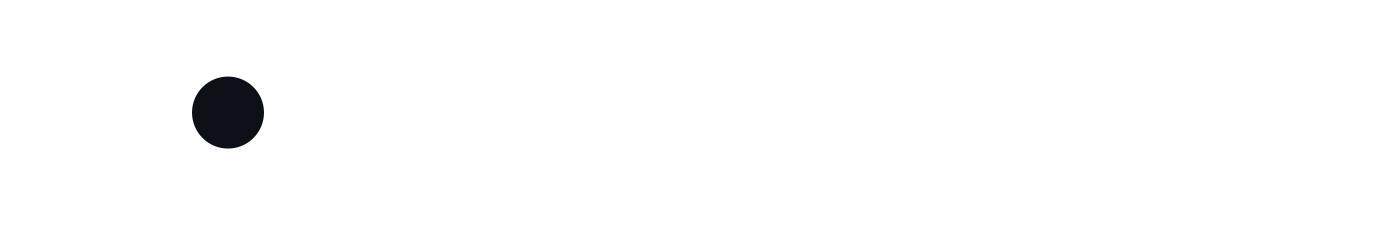
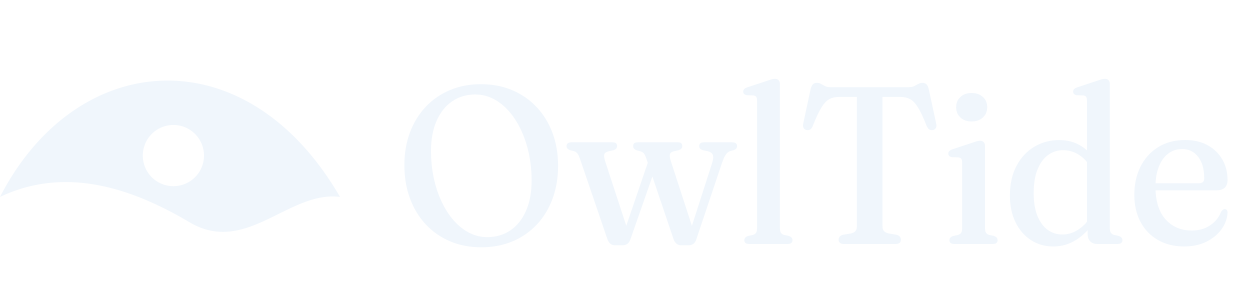
Wordmark: outline Fraunces glyphs as SVG, transparent pupil

Changed region(s): [[0.1224, 0.3092, 0.2142, 0.6185]]

diff --git a/README.md b/README.md
@@ -1,7 +1,7 @@
 <p align="center">
   <picture>
-    <source media="(prefers-color-scheme: dark)" srcset="assets/wordmark-dark.png">
-    <img src="assets/wordmark-light.png" alt="OwlTide" width="360">
+    <source media="(prefers-color-scheme: dark)" srcset="assets/wordmark-dark.svg">
+    <img src="assets/wordmark-light.svg" alt="OwlTide" width="360">
   </picture>
 </p>
 
